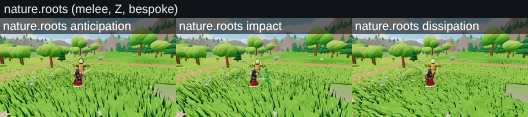
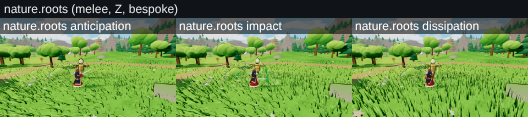
melee v4 fix 1c: ice.charged end star stands above the lance tip (detail 1799 → 3134 px)
Claude-Session: https://claude.ai/code/session_01P3YgZoXzBKsrUJowNLocSe

diff --git a/src/sword/rows.js b/src/sword/rows.js
@@ -83,7 +83,7 @@ export const ROWS = {
     start(L, cc) { anticip(L, cc, 'ice'); },
     strike(L, cc, a) { frame(L, a, 4); const t0 = chest(L, 1.15), end = L.h.v3(F.px + F.fx * 4.6, F.py + 1.05, F.pz + F.fz * 4.6);
       L.h.ribbon(cc, { points: [t0, end], width: 0.3, taper: 0.95, life: 0.5, el: 'ice', alpha: 0.8 });
-      L.h.line(cc, { shape: 'star', points: 6, r2: 0.3, el: 'ice', pos: end, plane: 'billboard', r: 1.7, width: 0.085, life: 0.4, tIn: 0.05, tOut: 0.2 });
+      L.h.line(cc, { shape: 'star', points: 6, r2: 0.3, el: 'ice', pos: L.h.v3(end.x, end.y + 1.2, end.z), plane: 'billboard', r: 2.0, width: 0.1, life: 0.45, tIn: 0.05, tOut: 0.2 });
       const g = ahead(L, 4.6);
       L.h.line(cc, { shape: 'poly', sides: 6, el: 'ice', pos: g, plane: 'ground', r: 1.9, width: 0.07, life: 0.7, tIn: 0.08, tOut: 0.3, scaleIn: 'backOut', rot: F.ang });
       L.h.spikes(cc, 'iceSpikes', g, 6, 1.1, 0.9);
